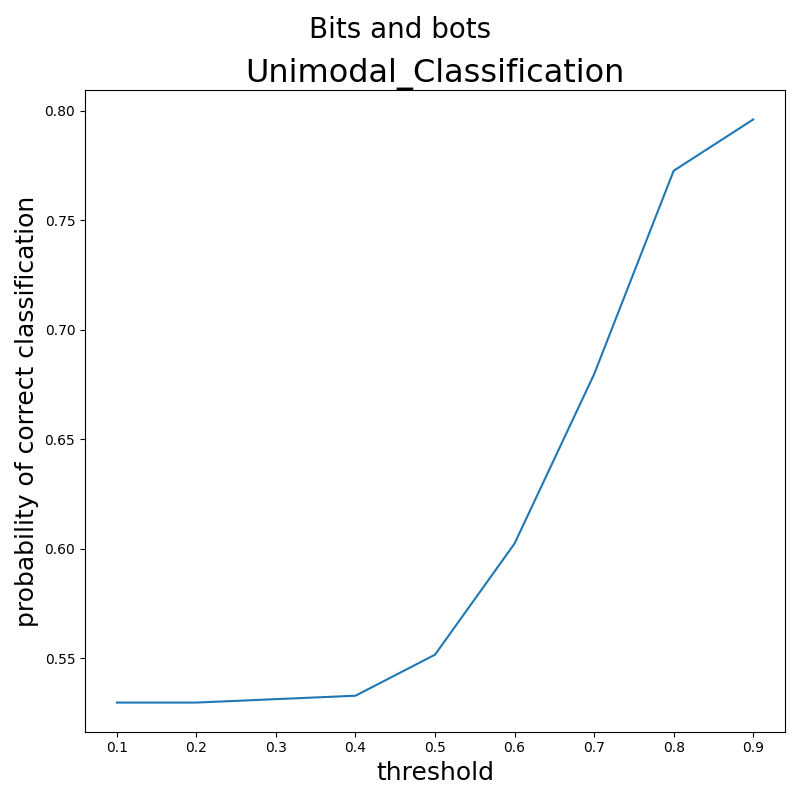
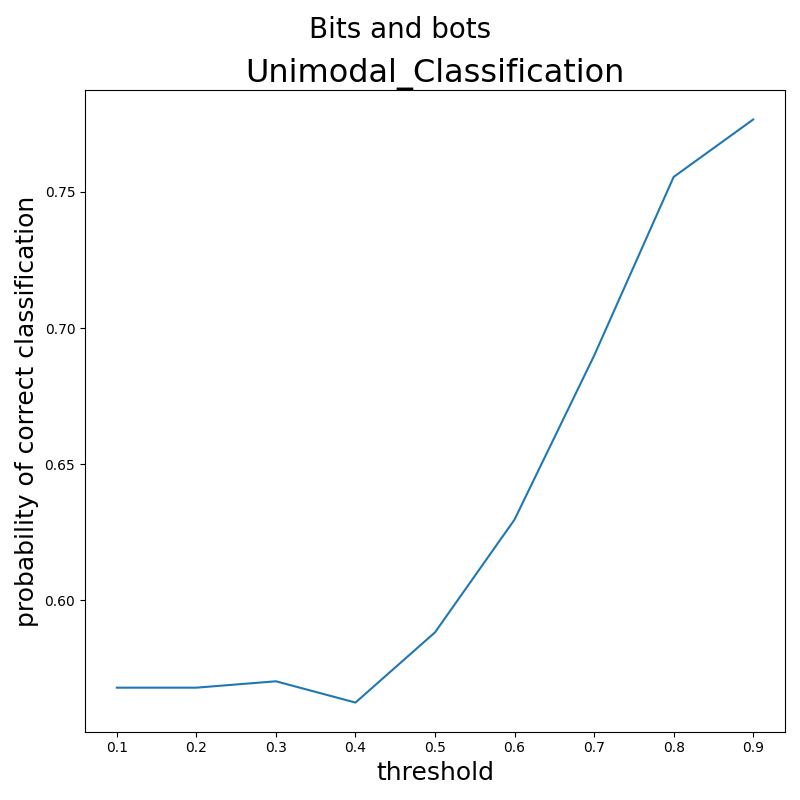
f

diff --git a/main_gen.py b/main_gen.py
@@ -35,7 +35,6 @@ vocab_size = max(max_xxx,max_yyy)+1  #todo
 gpt_conf.vocab_size = vocab_size
 # np.sort(df_dict_all['survey_desktop']['time_diff'].to_numpy()
 disc = Discretizer(max_ttt,vocab_size)
-
 # Use Training set for ISIT2024
 max_sample_len_train = 70
 min_sample_len_train = 1
@@ -99,7 +98,7 @@ else:
   model.load_state_dict(checkpoint['state_dict'])
 
 # ---------------------------
-num_samples = 5 # number of samples to draw
+num_samples = 3 # number of samples to draw
 max_new_tokens = blocksize+1 # number of tokens generated in each sample
 temperature = 0.8 # 1.0 = no change, < 1.0 = less random, > 1.0 = more random, in predictions
 top_k = 200 # retain only the top_k most likely tokens, clamp others to have 0 probability
@@ -108,17 +107,14 @@ dtype = 'bfloat16' if tc.cuda.is_available() and tc.cuda.is_bf16_supported() els
 ptdtype = {'float32':tc.float32,'bfloat16':tc.bfloat16,'float16':tc.float16}[dtype]
 ctx = nullcontext() if device == 'cpu' else tc.amp.autocast(device_type=device, dtype=ptdtype)
 # encode the beginning of the prompt
-x = 21  
-y = 153
-t = 0
-start_ids = [x,y,t]
-x = (tc.tensor(start_ids, dtype=tc.long, device=device)[None, ...])
+x = 21;y = 153;t = 0
+start_xyt = (tc.tensor([x,y,t], dtype=tc.long, device=device)[None, ...])
 #*** x.shape  [1,2]=  bs, start_sentence_len
 # run generation
 with tc.no_grad():
   with ctx:
     for k in range(num_samples):
-      gen_xyt = model.generate(x, max_new_tokens, temperature=temperature, top_k=top_k)
+      gen_xyt = model.generate(start_xyt, max_new_tokens, temperature=temperature, top_k=top_k)
       print(gen_xyt)
       bs,bl = gen_xyt.shape 
       gen_xyt = gen_xyt.reshape(bs,-1,3)  
@@ -127,20 +123,25 @@ from nets.nn_net import NeuralNetwork
 from data_set_.data_loader_ import ISITDataset
 max_sample_len_eval = 70  #*70
 bs_eval = 1
-eval_dataset  = ISITDataset(df_dict_eval,training_len=eval_len*bs_eval,
+eval_len = 100
+eval_dataset_mlp  = ISITDataset(df_dict_eval,training_len=eval_len*bs_eval,
                             min_sample_len=max_sample_len_eval,
                             max_sample_len=max_sample_len_eval)
+eval_dataset  = ISITDataset_gen(df_dict_eval,training_len=eval_len*bs_eval,
+                            min_sample_len=max_sample_len_eval,
+                            max_sample_len=max_sample_len_eval)
+
 eval_dataloader = DataLoader(eval_dataset, batch_size=bs_eval, 
                              shuffle=True)
 
-category = len(eval_dataset.idx_2_name)  #5 #['hlisa_traces', 'gremlins', 'za_proxy', 'survey_desktop', 'random_mouse_with_sleep_bot']
+category = len(eval_dataset_mlp.idx_2_name)  #5 #['hlisa_traces', 'gremlins', 'za_proxy', 'survey_desktop', 'random_mouse_with_sleep_bot']
 ckpt_path = 'model.ckpt'
-model = NeuralNetwork(max_len=max_sample_len_train,
+model_mlp = NeuralNetwork(max_len=max_sample_len_train,
                       output_size=category).to(device)
 if not os.path.isfile(ckpt_path):
   raise Exception('you dont have defensive task ckpt, please run "python main.py" first') 
 checkpoint = tc.load(ckpt_path)
-model.load_state_dict(checkpoint['state_dict'])
+model_mlp.load_state_dict(checkpoint['state_dict'])
 thres_num = 10
 conf_thres_list = np.linspace(0,1,thres_num+1)[1:-1]
 #*  [0.1, 0.2, 0.3, 0.4, 0.5, 0.6, 0.7, 0.8, 0.9]
@@ -149,29 +150,39 @@ test_i = 0
 conf_n_correct_list      = np.zeros(len(conf_thres_list))
 conf_tot_n_samples_list  = np.zeros(len(conf_thres_list))
 n_to_detect_list       = np.zeros(len(conf_thres_list))
+for i, name in enumerate(eval_dataset_mlp.idx_2_name):
+  if name == 'survey_desktop':
+    human_idx = i
+assert eval_dataset_mlp.idx_2_name[human_idx] == 'survey_desktop'
+blocksize_mlp = 70
 for batch in eval_dataloader:
-  _, time_diff, pos_x, pos_y, _,terminate_idx, userType = batch
-  time_diff=time_diff.to(device);  y_target = userType.to(device)
+  _, time_diff, pos_x, pos_y, _,terminate_idx = batch
+  time_diff=time_diff.to(device);  
   pos_x=pos_x.to(device);          pos_y=pos_y.to(device);
   assert terminate_idx[0]==max_sample_len_eval
+  x2 = int(pos_x[0,0].cpu().item())
+  y2 = int(pos_y[0,0].cpu().item())
+  t2 = int(time_diff[0,0].cpu().item())  #todo   disc 2 token
+  start_xyt = (tc.tensor([x2,y2,t2], dtype=tc.long, device=device)[None, ...])
+  gen_xyt = model.generate(start_xyt, max_new_tokens, temperature=temperature, top_k=top_k)
+  bs,bl = gen_xyt.shape 
+  gen_xyt = gen_xyt.reshape(bs,-1,3)   
+  pos_x_gen = gen_xyt[:,:,0].to(tc.float32)[:,:blocksize_mlp]
+  pos_y_gen = gen_xyt[:,:,1].to(tc.float32)[:,:blocksize_mlp]
+  time_diff_gen_token = gen_xyt[:,:,2]
+  time_diff_gen = disc.token_2_cont(time_diff_gen_token.cpu())[:,:blocksize_mlp].to(device)  #todo use log  or just use continous prediction
+  y_target = tc.tensor([human_idx]).to(device)
   for conf_i,conf_thres in enumerate(conf_thres_list):
     max_conf = 0;
     n_to_detect = 0;   
-    pos_x2=tc.zeros_like(pos_x);pos_y2=tc.zeros_like(pos_y);time_diff2=tc.zeros_like(time_diff) 
-    
-    #todo   sometimes use gen_xyt  some times use posx2?   no   just use gen_xyt directly   
-    #todo  compare len, datatype between pos_x2 and gen_xyt   
-    gen_xyt = model.generate(x, max_new_tokens, temperature=temperature, top_k=top_k)
-    print(gen_xyt)
-    bs,bl = gen_xyt.shape 
-    gen_xyt = gen_xyt.reshape(bs,-1,3)   
-    breakpoint()
+    pos_x2=tc.zeros_like(pos_x_gen);
+    pos_y2=tc.zeros_like(pos_y_gen);time_diff2=tc.zeros_like(time_diff_gen)  
     while n_to_detect<max_sample_len_eval and max_conf<conf_thres:
       #**  request more data if conf is lower then threshold
-      pos_x2[0,n_to_detect] = pos_x[0,n_to_detect]
-      pos_y2[0,n_to_detect] = pos_y[0,n_to_detect]
-      time_diff2[0,n_to_detect] = time_diff[0,n_to_detect] 
-      y_hat = model(time_diff2,pos_x2,pos_y2,terminate_idx)
+      pos_x2[0,n_to_detect] = pos_x_gen[0,n_to_detect]
+      pos_y2[0,n_to_detect] = pos_y_gen[0,n_to_detect]
+      time_diff2[0,n_to_detect] = time_diff_gen[0,n_to_detect] 
+      y_hat = model_mlp(time_diff2,pos_x2,pos_y2,terminate_idx)
       conf_y_hat = tc.softmax(y_hat,dim=1)
       max_conf = conf_y_hat.max(dim=1)[0]
       n_to_detect += 1   
@@ -194,7 +205,7 @@ print(f"Accuracy on test set: {tot_num_correct/tot_num_samples*100:.2f}")
 accu_list = conf_n_correct_list/conf_tot_n_samples_list
 # breakpoint()
 fig, ax = plt.subplots(1,1,figsize=(8,8))
-fig.suptitle('Bits and bots', fontsize=20)
+fig.suptitle('OffenseTask_unimodal', fontsize=20)
 title = "Unimodal_Classification"
 ax.set_title(title,fontsize=23)
 ax.set_ylabel('probability of correct classification',fontsize =18)
@@ -204,30 +215,9 @@ plt.yticks(np.arange(0, 1+0.05, 0.05))
 plt.grid(True)
 ax.scatter(n_to_detect_list,accu_list,label="accuracy")
 plt.tight_layout() 
-plt.savefig(f"{title}_{training_len=}.png")
+plt.savefig(f"offenseTask_{training_len=}.png")
 plt.show()
-fig, ax = plt.subplots(1,1,figsize=(8,8))
-fig.suptitle('Bits and bots', fontsize=20)
-title = "Unimodal_Classification"
-ax.set_title(title,fontsize=23)
-ax.set_ylabel('probability of correct classification',fontsize =18)
-ax.set_xlabel('threshold',fontsize =18)
-ax.plot( conf_thres_list,accu_list)
-plt.tight_layout() 
-plt.savefig(f"{title}_{training_len=}_thres_correct.png")
-plt.show()
-fig, ax = plt.subplots(1,1,figsize=(8,8))
-fig.suptitle('Bits and bots', fontsize=20)
-title = "Unimodal_Classification"
-ax.set_title(title,fontsize=23)
-ax.set_ylabel('number of events to detection',fontsize =18)
-ax.set_xlabel('threshold',fontsize =18)
-ax.plot( conf_thres_list,n_to_detect_list)
-plt.tight_layout() 
-plt.savefig(f"{title}_{training_len=}_thres_n_to_detect.png")
-plt.show()
-avg_length = np.mean(n_to_detect_list)
-print("avg_length",avg_length)
+
 breakpoint()
 
 

diff --git a/data_set_/data_loader_.py b/data_set_/data_loader_.py
@@ -110,6 +110,8 @@ class ISITDataset(Dataset):
     eventName[tc.arange(self.max_sample_len),eventName_idx] = 1
     for user_t in sample['userType']: assert  user_t == name
     userType = tc.tensor(data_type_idx,dtype= tc.int64)  #cross entropy must be long not int
+    if name == 'survey_desktop':
+      assert userType == 3
     return userId, time_diff, x, y, eventName,terminate_idx, userType
   #           [x0,        x1, x2,x3, x4]          y
 
